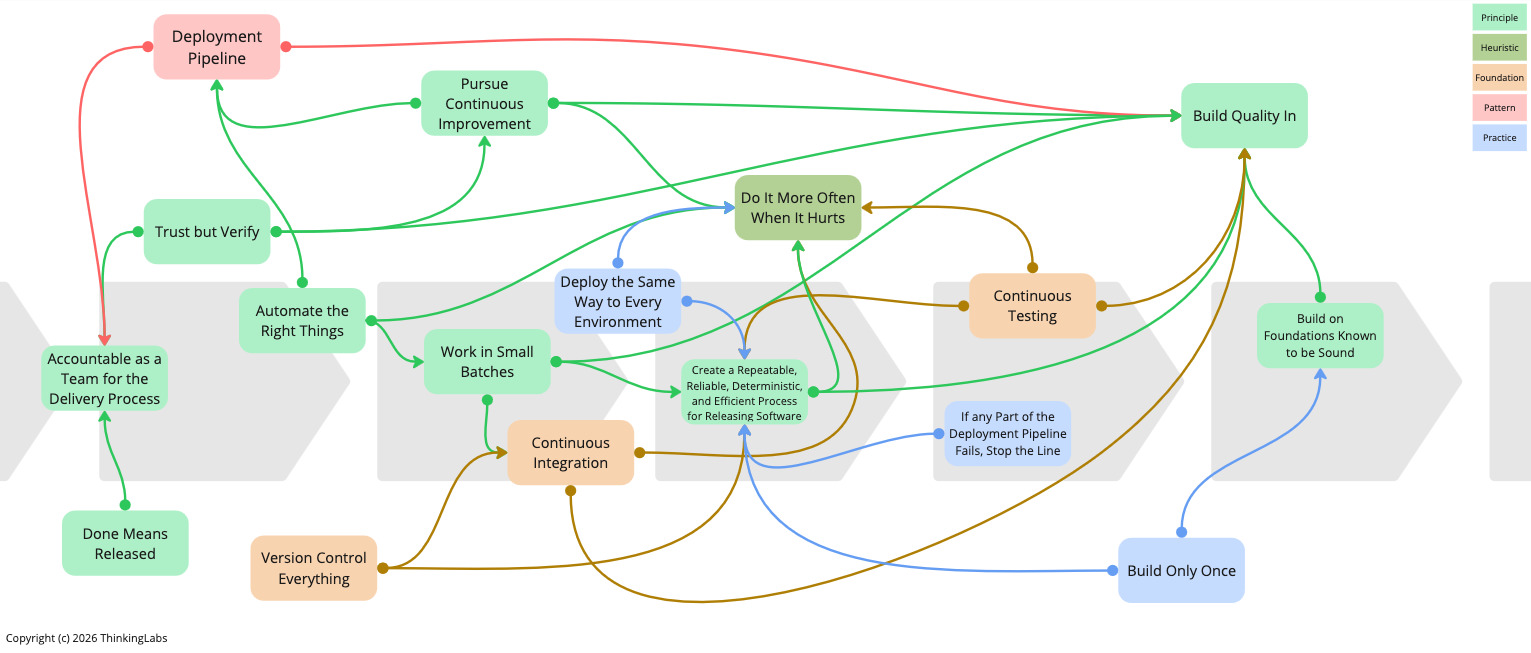
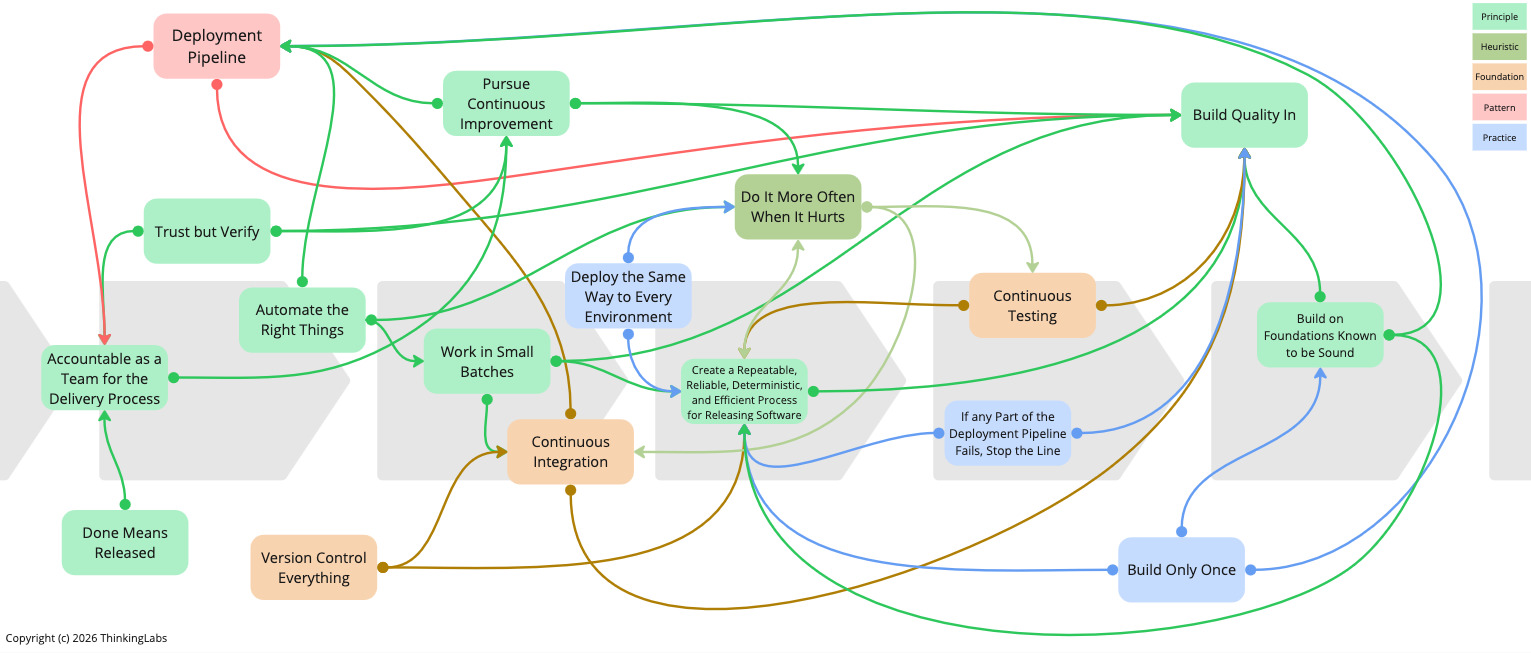
Fix some relation bugs in the continuous delivery schema

diff --git a/_posts/2026-01-09-what-is-continuous-delivery.md b/_posts/2026-01-09-what-is-continuous-delivery.md
@@ -14,6 +14,8 @@ Any time an organisation tells me with great confidence that they *do Continuous
 
 *Update Jan 10th, 2026: Clarify that the release cadence is defined by market demand.*
 
+*Update Aug 15th, 2026: Update the diagram and some narratives to fix some bugs in the relations.*
+
 ---
 
 Why still explain Continuous Delivery in 2026? Everybody does it, don't they? But, do they really do? Is that really the case?
@@ -97,7 +99,7 @@ It is reliable, as with every run of the [*Deployment Pipeline*](#deployment-pip
 
 We demand efficiency to shorten the time to market and accelerate feedback to gain more information and run more experiments. Eventually, efficiency reduces the [Cost of Delay](https://blackswanfarming.com/cost-of-delay/). We want to know as quickly as possible if the thing we have just implemented, deployed into production and released to users is actually being used and how it is used. Based on this information, we can make new decisions and run new experiments to find new unmet needs of our users. As such, finding new ways to delight our users, which is a massive competitive advantage.
 
-The repeatability, reliability and determinism derive from two foundations: [*Version Control Everything*](#version-control-everything), and [*Continuous Testing*](#continuous-testing); and two other principles: [*Do It More Often When It Hurts*](#do-it-more-often-when-it-hurts), and  [*Automate the Right Things*](#automate-the-right-things).
+The repeatability, reliability and determinism derive from two foundations: [*Version Control Everything*](#version-control-everything), and [*Continuous Testing*](#continuous-testing); from one principle: [*Automate the Right Things*](#automate-the-right-things); and from one heuristic: [*Do It More Often When It Hurts*](#do-it-more-often-when-it-hurts).
 
 Interestingly, though repeatability, reliability and determinism derive from *Do It More Often When It Hurts* because if we want to do something more often, we need that repeatability, reliability and determinism. But, it is also a prerequisite to *Do It More Often When It Hurts*. There is that bidirectional influence, similar to quality and throughput, which amplifies each other.
 
@@ -133,13 +135,13 @@ Large batches inherently lower motivation and urgency. It demotivates people by 
 
 By splitting work into much smaller chunks that deliver measurable value quickly, we receive essential feedback on the work we are doing so that we can course-correct. Continuous Delivery changes the economics of the IT delivery process, making the cost of pushing out small individual changes very low (Farley and Humble 2011), by reducing the transaction cost, allowing to make many smaller, more frequent changes. Obviously, this demands to [*Make All Changes In Small Increments*]({% post_url 2022-09-25-the-practices-that-make-continuous-integration-coding %}#practice-5-make-all-changes-in-small-increments).
 
-Working in small batches derives from two other principles: [*Create a Repeatable, Reliable, Deterministic, and Efficient Process for Releasing Software*](#create-a-repeatable-reliable-deterministic-and-efficient-process-for-releasing-software), and [*Automate the Right Things*](#automate-the-right-things).
+Working in small batches derives from one other principle: [*Automate the Right Things*](#automate-the-right-things) and enables [*Create a Repeatable, Reliable, Deterministic, and Efficient Process for Releasing Software*](#create-a-repeatable-reliable-deterministic-and-efficient-process-for-releasing-software).
 
 ### Automate the Right Things
 
 Computers perform repetitive tasks; people solve problems. To reduce the transaction cost of pushing out many more, smaller changes, we should invest in simplifying and automating repetitive work that takes time, such as manual regression testing and manual release processes. This frees up teams for higher-value problem-solving activities, innovation and value creation (Farley and Humble 2011). Automation accelerates feedback, therefore multiplying learning and discovery. It supports faster, more reliable releases. Most importantly, it vastly reduces risks and enables to [Work in Small Batches](#work-in-small-batches).
 
-Note that this principle is nuanced. It does not say "Automate all the things". In that case, there is a risk of overinvesting. In consequence, we only automate bottlenecks, repetitive tasks, or tasks that involve high risks. For that, we ought to map the technology value stream from Version Control to the user, and identify bottlenecks, risks and repetition. This technology value stream map is now the starting point to implement the [*Deployment Pipeline*](#deployment-pipeline). By automating the identified steps, we start building the Deployment Pipeline iteratively.
+Note that this principle is nuanced. It does not say "*Automate all the things*". In that case, there is a risk of overinvesting. In consequence, we only automate bottlenecks, repetitive tasks, or tasks that involve high risks. For that, we ought to map the technology value stream from Version Control to the user, and identify bottlenecks, risks and repetition. This technology value stream map is now the starting point to implement the [*Deployment Pipeline*](#deployment-pipeline). By automating the identified steps, we start building the Deployment Pipeline iteratively.
 
 > Spending time optimising anything other than the bottleneck is an illusion.
 >
@@ -213,7 +215,7 @@ When testing is painful, that only occurs before a release, do not leave testing
 
 When releasing is laborious and distressing, shift from releasing once a year to biannually, to quarterly, to monthly, weekly, and eventually daily or even multiple times per day. This builds on the principle to [*Automate the Right Things*](#automate-the-right-things), and the practice of [*Deploying the Same Way to Every Environment*](#deploy-the-same-way-to-every-environment).
 
-At the same time, the chosen release cadence must be a business decision. Continuous Delivery has a dynamic success threshold. An organisation is said to be in a state of Continuous Delivery when its IT services have the required stability and throughput to satisfy market demand. If releasing monthly satisfies demand, we are in a state of Continuous Delivery. That does not mean that, internally, we should not produce Release Candidates daily. We definitely should, for every commit!
+At the same time, the decision for adopting a certain release cadence must be a business decision. Continuous Delivery has a dynamic success threshold. An organisation is said to be in a state of Continuous Delivery when its IT services have the required stability and throughput to satisfy market demand. If releasing monthly satisfies demand, we are in a state of Continuous Delivery. That does not mean that, internally, we should not produce Release Candidates daily. We definitely should, for every commit!
 
 When writing documentation is tedious, do it immediately when implementing the feature or the architectural change. Make the documentation, release notes, [runbooks](https://www.pagerduty.com/resources/automation/learn/what-is-a-runbook/), and [decision records](https://cognitect.com/blog/2011/11/15/documenting-architecture-decisions.html) part of the [Definition of Done](https://www.scrum.org/resources/what-definition-done).
 
